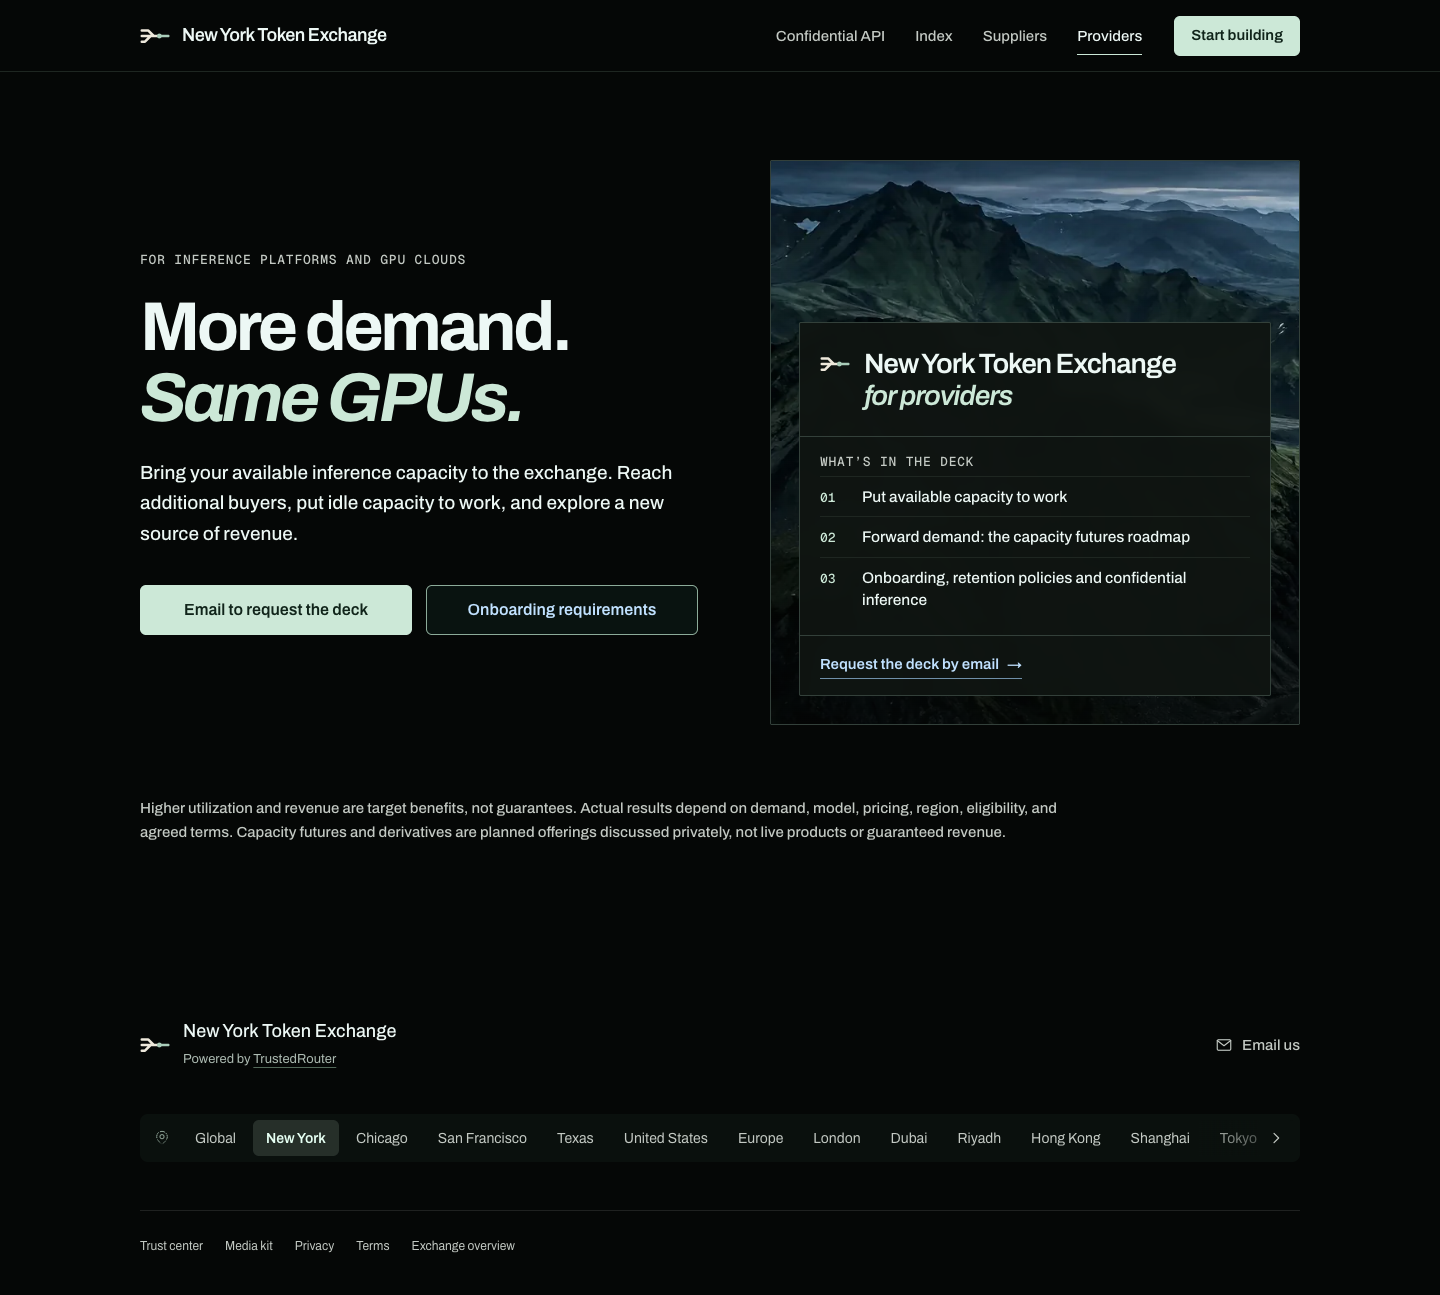
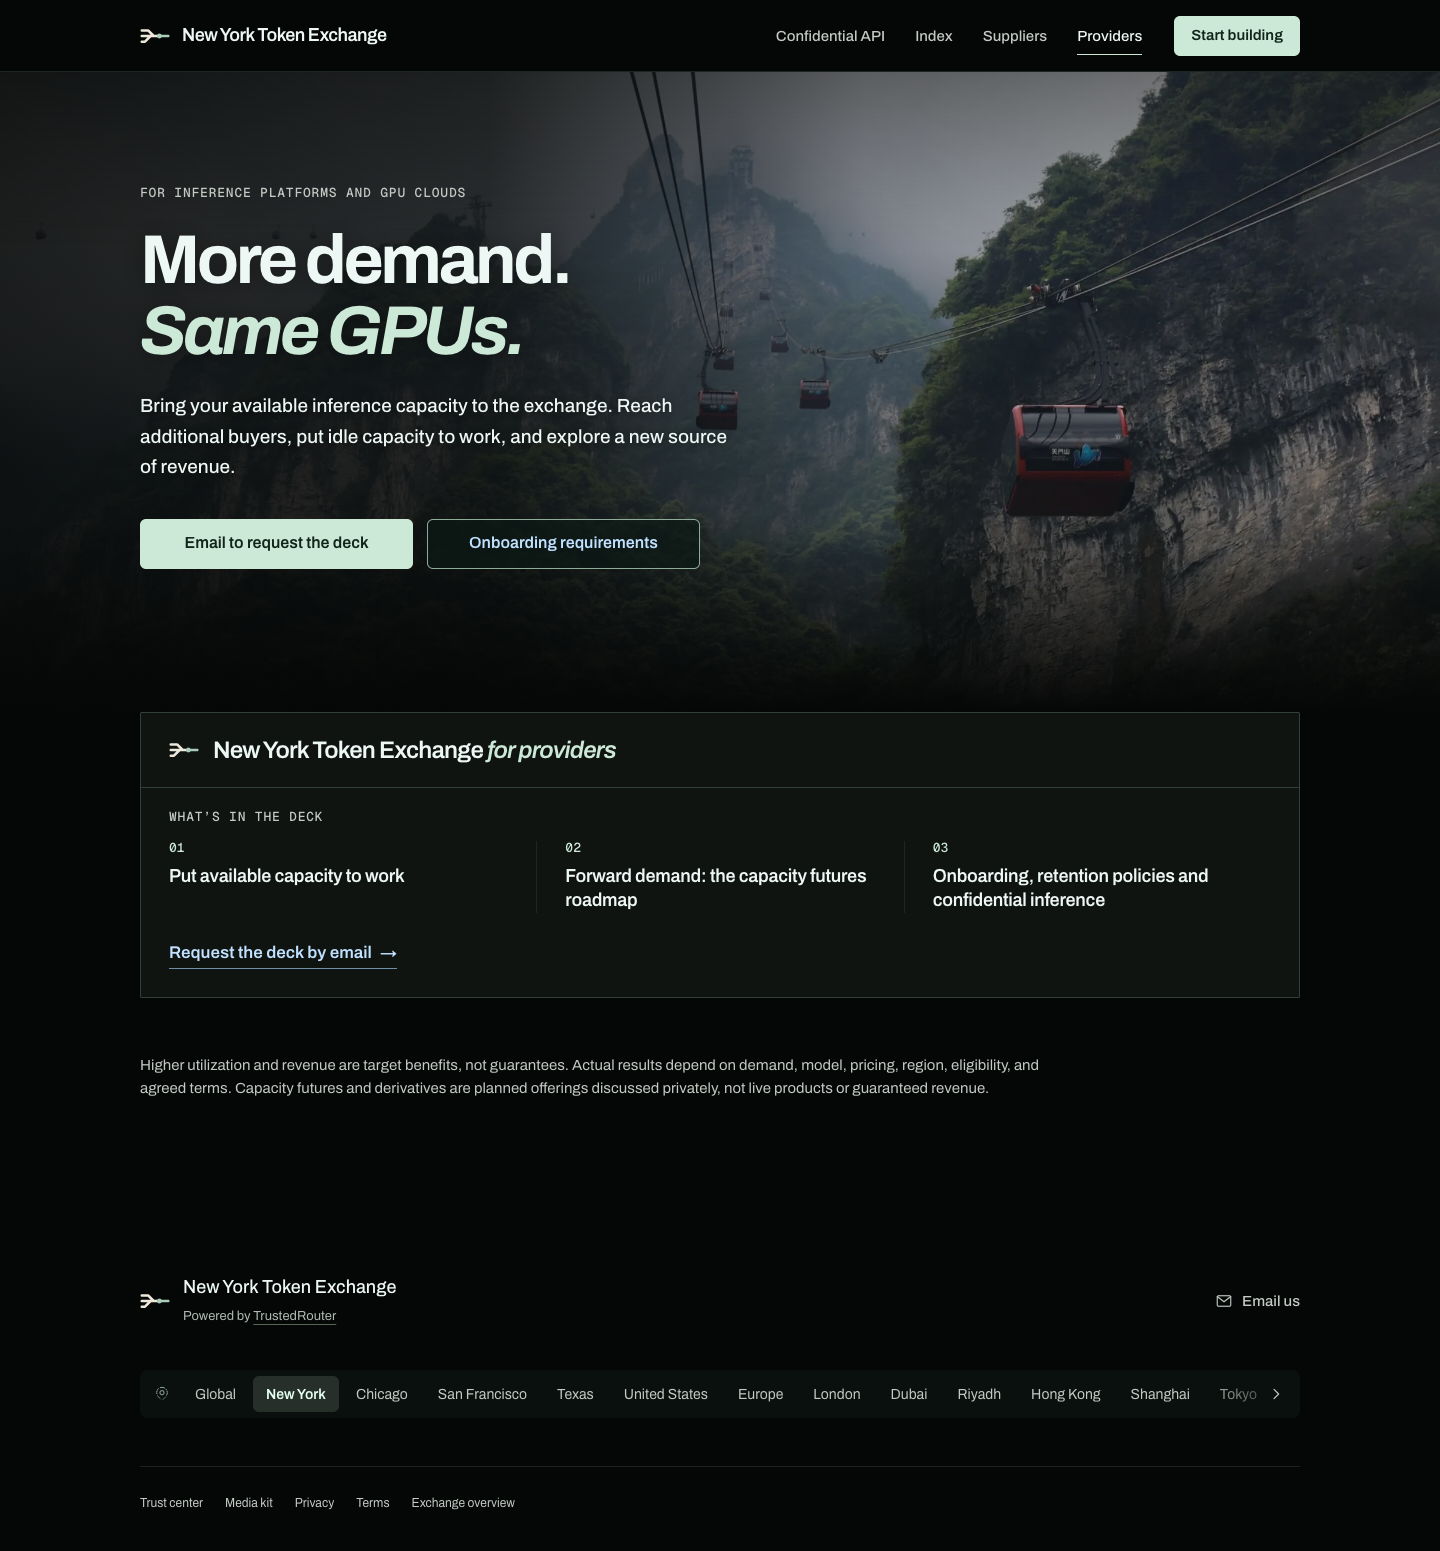
Update provider hero and deck panel

diff --git a/sites/token-exchange/nyte-v2/providers.css b/sites/token-exchange/nyte-v2/providers.css
@@ -1,29 +1,49 @@
-/* Provider briefing: reuse the supplier hero and shared listing card. */
-[data-nyte-page="providers"] main{font-weight:450}
-[data-nyte-page="providers"] .hero-sup{padding-bottom:72px}
-[data-nyte-page="providers"] .eyebrow{font:500 13px/1.5 var(--mono);letter-spacing:.06em;text-transform:uppercase;color:var(--t2);margin-bottom:22px}
-[data-nyte-page="providers"] .lede{color:var(--t1)}
-[data-nyte-page="providers"] .hero-sup .btns{display:grid;grid-template-columns:repeat(2,minmax(0,1fr));max-width:560px}
-[data-nyte-page="providers"] .hero-sup .btn{white-space:normal;text-align:center;padding:12px 18px}
-[data-nyte-page="providers"] .listing{background:rgba(15,20,17,.94)}
-.listing>.pv-cover{padding:26px 20px 24px}
-.pv-cover-t{display:grid;grid-template-columns:32px minmax(0,1fr);column-gap:12px;align-items:center;font-size:clamp(24px,2vw,28px);font-weight:600;line-height:1.08;letter-spacing:-.04em;color:var(--t1)}
-.pv-cover-t svg{width:30px;height:30px;display:block}
-.pv-cover-t .s{grid-column:2;display:block;color:var(--mint);font-style:italic;margin-top:2px}
-.listing>.pv-toc{padding:18px 20px 16px}
-.pv-toc-k{font:500 13px/1 var(--mono);letter-spacing:.06em;text-transform:uppercase;color:var(--t2);margin-bottom:8px}
-.pv-sent{font-size:15px}
-.pv-toc ol{list-style:none;margin:0;padding:0}
-.pv-toc li{display:grid;grid-template-columns:30px minmax(0,1fr);gap:12px;align-items:baseline;padding:9px 0;border-top:1px solid var(--rule-soft);font-size:15.5px;line-height:1.4;color:var(--t1)}
-.pv-toc li span{font:500 13px/1.4 var(--mono);color:var(--mint)}
-.pv-legal{padding:0 0 88px}
+/* Approved provider hero and deck panel; controls use shared site styles. */
+.ph-cableway{background-image:url(photos/cableway-mist-2400.webp)}
+.hero-pv{position:relative;isolation:isolate;overflow:hidden;min-height:min(72svh,640px);display:flex;align-items:center;padding:64px 0 96px}
+.hero-pv .ph{background-position:70% 56%}
+.hero-pv::before{content:"";position:absolute;inset:0;z-index:-1;background:linear-gradient(180deg,rgba(5,7,6,.45) 0%,rgba(5,7,6,0) 28%,rgba(5,7,6,0) 70%,#050706 100%),linear-gradient(90deg,rgba(5,7,6,.88) 0%,rgba(5,7,6,.78) 34%,rgba(5,7,6,.3) 60%,rgba(5,7,6,.12) 100%)}
+.hero-pv .wrap{width:100%}
+.hero-pv .inner{max-width:600px}
+.hero-pv .eyebrow{font:500 13px/1.5 var(--mono);letter-spacing:.06em;text-transform:uppercase;color:var(--t2);margin-bottom:22px}
+.hero-pv h1{margin-bottom:24px;text-shadow:0 2px 24px rgba(5,7,6,.5)}
+.hero-pv .lede{font-weight:450;margin-bottom:36px;color:var(--t1);text-shadow:0 1px 12px rgba(5,7,6,.7)}
+.hero-pv .btns{display:grid;grid-template-columns:repeat(2,minmax(0,1fr));max-width:560px}
+.hero-pv .btn{white-space:normal;text-align:center;padding:12px 18px}
+
+.pv-deck-sec{padding:0}
+.pv-deck{background:var(--panel);border:1px solid var(--rule);border-radius:2px}
+.pv-deck-hd{display:flex;justify-content:space-between;align-items:center;gap:16px 24px;flex-wrap:wrap;padding:22px 28px;border-bottom:1px solid var(--rule)}
+.pv-lockup{display:flex;align-items:center;gap:14px;font-size:24px;font-weight:600;line-height:1.2;letter-spacing:-.035em;color:var(--t1)}
+.pv-lockup svg{width:30px;height:30px;flex:none}
+.pv-lockup em{font-weight:600}
+.pv-deck-body{padding:22px 28px 28px}
+.pv-deck-k{font:500 13px/1 var(--mono);letter-spacing:.06em;text-transform:uppercase;color:var(--t2);margin-bottom:18px}
+.pv-topics{display:grid;grid-template-columns:repeat(3,minmax(0,1fr))}
+.pv-topics>div{padding-right:28px}
+.pv-topics>div+div{padding-left:28px;border-left:1px solid var(--rule-soft)}
+.pv-topics span{display:block;font:500 13px/1 var(--mono);color:var(--mint);margin-bottom:10px}
+.pv-topics b{display:block;font-size:18px;font-weight:550;line-height:1.35;letter-spacing:-.015em;color:var(--t1)}
+.pv-deck-link{margin-top:26px}
+
+.pv-legal{padding:56px 0 88px}
 .pv-legal .fine{margin:0;font-size:15px;line-height:1.55;color:var(--t2);max-width:62em}
-@media(max-width:600px){
-  [data-nyte-page="providers"] .hero-sup{padding-bottom:48px}
-  [data-nyte-page="providers"] .hero-sup .btns{grid-template-columns:1fr}
-  [data-nyte-page="providers"] .hs-art{min-height:460px}
-  .listing>.pv-cover{padding:22px 16px 20px}
-  .pv-cover-t{font-size:22px}
-  .listing>.pv-toc{padding:16px 16px 14px}
-  .pv-legal{padding:0 0 56px}
+
+@media (max-width:1000px){
+  .pv-topics{grid-template-columns:1fr}
+  .pv-topics>div{padding:14px 0}
+  .pv-topics>div:first-child{padding-top:0}
+  .pv-topics>div+div{padding-left:0;border-left:0;border-top:1px solid var(--rule-soft)}
+  .pv-topics span{margin-bottom:6px}
+}
+@media (max-width:600px){
+  .hero-pv{min-height:0;padding:48px 0 72px}
+  .hero-pv .ph{background-position:64% 50%}
+  .hero-pv .btns{grid-template-columns:1fr}
+  .pv-deck-hd{padding:18px 16px}
+  .pv-lockup{font-size:20px;gap:10px}
+  .pv-lockup svg{width:26px;height:26px}
+  .pv-lockup em{display:block}
+  .pv-deck-body{padding:16px 16px 20px}
+  .pv-legal{padding:40px 0 56px}
 }

diff --git a/sites/token-exchange/nyte-v2/providers.html b/sites/token-exchange/nyte-v2/providers.html
@@ -1,29 +1,30 @@
-<section class="hero-sup">
-    <div class="wrap hs-grid">
-      <div>
-        <p class="eyebrow">For inference platforms and GPU clouds</p>
-        <h1>More demand.<br><em>Same GPUs.</em></h1>
-        <p class="lede">Bring your available inference capacity to the exchange. Reach additional buyers, put idle capacity to work, and explore a new source of revenue.</p>
-        <div class="btns">
-          <a class="btn btn-primary" href="mailto:providers@trustedrouter.com?subject=NY%20Token%20Exchange%20provider%20deck%20request&amp;body=Hi%20TrustedRouter%20team%2C%0A%0AI%27d%20like%20to%20request%20the%20NY%20Token%20Exchange%20provider%20deck.%0A%0ACompany%3A%0AWebsite%3A%0AMy%20role%3A%0AModels%20or%20inference%20capacity%3A%0AServing%20regions%3A%0A%0AThank%20you!">Email to request the deck</a>
-          <a class="btn btn-secondary" href="https://trustedrouter.com/providers/marketplace">Onboarding requirements</a>
-        </div>
+<section class="hero-pv">
+    <div class="ph ph-cableway" aria-hidden="true"></div>
+    <div class="wrap"><div class="inner">
+      <p class="eyebrow">For inference platforms and GPU clouds</p>
+      <h1>More demand.<br><em>Same GPUs.</em></h1>
+      <p class="lede">Bring your available inference capacity to the exchange. Reach additional buyers, put idle capacity to work, and explore a new source of revenue.</p>
+      <div class="btns">
+        <a class="btn btn-primary" href="mailto:providers@trustedrouter.com?subject=NY%20Token%20Exchange%20provider%20deck%20request&amp;body=Hi%20TrustedRouter%20team%2C%0A%0AI%27d%20like%20to%20request%20the%20NY%20Token%20Exchange%20provider%20deck.%0A%0ACompany%3A%0AWebsite%3A%0AMy%20role%3A%0AModels%20or%20inference%20capacity%3A%0AServing%20regions%3A%0A%0AThank%20you!">Email to request the deck</a>
+        <a class="btn btn-secondary" href="https://trustedrouter.com/providers/marketplace">Onboarding requirements</a>
       </div>
-      <div class="hs-art">
-        <div class="ph ph-peaks" aria-hidden="true"></div>
-        <div class="listing" aria-label="The provider deck">
-          <div class="pv-cover">
-            <p class="pv-cover-t"><svg aria-hidden="true" viewBox="0 0 24 24"><g fill="none" stroke-linecap="round" stroke-linejoin="round"><path d="M1.4 7.5 H6.5 L11 12 M1.4 16.5 H4 L8.5 12 M1.4 12 H15.5" stroke="#ede8db" stroke-width="2"></path><circle cx="15.5" cy="12" r="1.9" fill="#a9cdb9"></circle><path d="M17.4 12 H22.6" stroke="#a9cdb9" stroke-width="2"></path></g></svg><span class="w">New York Token Exchange</span><span class="s">for providers</span></p>
+    </div></div>
+  </section>
+
+  <section class="pv-deck-sec">
+    <div class="wrap">
+      <div class="pv-deck" aria-label="The provider deck">
+        <div class="pv-deck-hd">
+          <p class="pv-lockup"><svg aria-hidden="true" viewBox="0 0 24 24"><g fill="none" stroke-linecap="round" stroke-linejoin="round"><path d="M1.4 7.5 H6.5 L11 12 M1.4 16.5 H4 L8.5 12 M1.4 12 H15.5" stroke="#ede8db" stroke-width="2"></path><circle cx="15.5" cy="12" r="1.9" fill="#a9cdb9"></circle><path d="M17.4 12 H22.6" stroke="#a9cdb9" stroke-width="2"></path></g></svg><span>New York Token Exchange <em>for providers</em></span></p>
+        </div>
+        <div class="pv-deck-body">
+          <p class="pv-deck-k">What’s in the deck</p>
+          <div class="pv-topics">
+            <div><span>01</span><b>Put available capacity to work</b></div>
+            <div><span>02</span><b>Forward demand: the capacity futures roadmap</b></div>
+            <div><span>03</span><b>Onboarding, retention policies and confidential inference</b></div>
           </div>
-          <div class="pv-toc">
-            <p class="pv-toc-k">What’s in the deck</p>
-            <ol>
-              <li><span>01</span>Put available capacity to work</li>
-              <li><span>02</span>Forward demand: the capacity futures roadmap</li>
-              <li><span>03</span>Onboarding, retention policies and confidential inference</li>
-            </ol>
-          </div>
-          <div class="pv-sent"><a class="more" href="mailto:providers@trustedrouter.com?subject=NY%20Token%20Exchange%20provider%20deck%20request&amp;body=Hi%20TrustedRouter%20team%2C%0A%0AI%27d%20like%20to%20request%20the%20NY%20Token%20Exchange%20provider%20deck.%0A%0ACompany%3A%0AWebsite%3A%0AMy%20role%3A%0AModels%20or%20inference%20capacity%3A%0AServing%20regions%3A%0A%0AThank%20you!">Request the deck by email</a></div>
+          <p class="pv-deck-link"><a class="more" href="mailto:providers@trustedrouter.com?subject=NY%20Token%20Exchange%20provider%20deck%20request&amp;body=Hi%20TrustedRouter%20team%2C%0A%0AI%27d%20like%20to%20request%20the%20NY%20Token%20Exchange%20provider%20deck.%0A%0ACompany%3A%0AWebsite%3A%0AMy%20role%3A%0AModels%20or%20inference%20capacity%3A%0AServing%20regions%3A%0A%0AThank%20you!">Request the deck by email</a></p>
         </div>
       </div>
     </div>

diff --git a/sites/token-exchange/test_provider_page.py b/sites/token-exchange/test_provider_page.py
@@ -67,6 +67,9 @@ class ProviderPageTests(unittest.TestCase):
         self.assertIn('/assets/nyte-v2/styles.css?', self.page)
         self.assertIn('/assets/nyte-v2/providers.css?', self.page)
         self.assertIn('class="site-footer"', self.page)
+        self.assertIn('class="ph ph-cableway"', self.page)
+        self.assertIn('class="pv-deck"', self.page)
+        self.assertTrue((self.root / 'assets/nyte-v2/photos/cableway-mist-2400.webp').is_file())
         self.assertNotIn('id="m-deck"', self.page)
         self.assertIn('>Trust center</a>', self.page)
         self.assertIn('<a href="/providers" data-nav="providers">Providers</a>', self.page)
